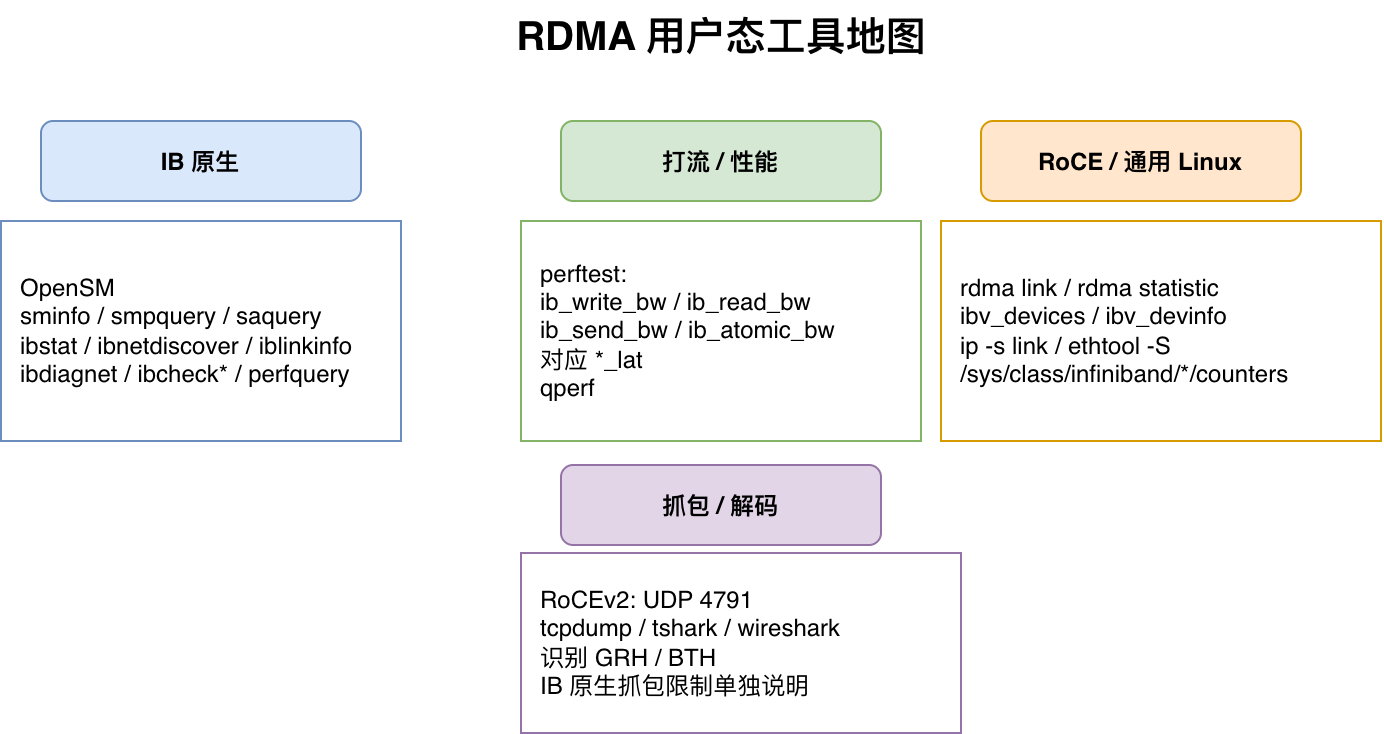
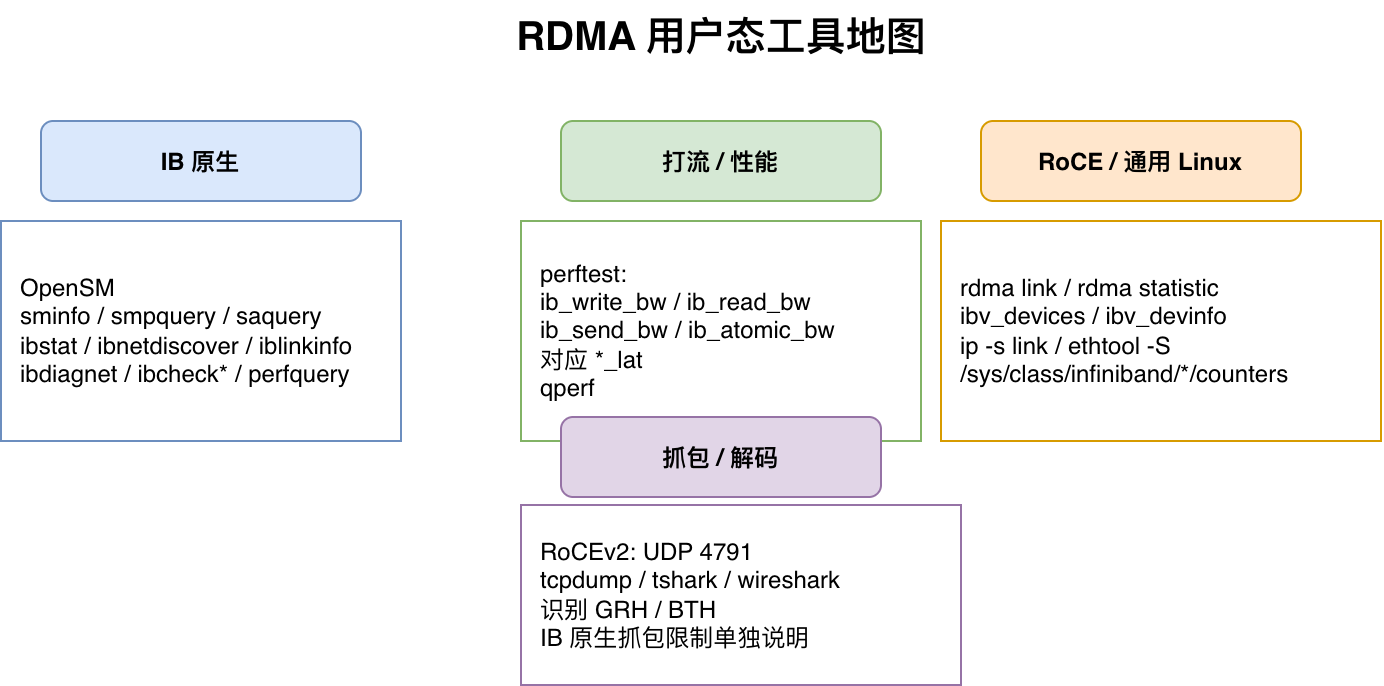
fix(tools): 修复全景图底部裁切，汇总表补 ibroute
- 抓包/解码分组上移 24px，PNG/SVG 重新导出，底部不再裁切
- 工具汇总表 dump_lfts/dump_mfts 行补上 ibroute <switch_lid>

diff --git a/articles/22-rdma-userspace-tools.md b/articles/22-rdma-userspace-tools.md
@@ -299,7 +299,7 @@ tshark -r roce.pcap -Y 'roce' -V
 | `ibdiagnet` | IB 诊断 | `ibutils2` | `ibdiagnet` | 链路速率/宽度、Symbol Error/BER | 子网体检 |
 | `ibping` / `ibtracert` | IB 诊断 | `infiniband-diags` | `ibping <lid>`、`ibtracert <src> <dst>` | 连通性、逐跳路径 | 连通性与路径 |
 | `perfquery` | IB 诊断 | `infiniband-diags` | `perfquery <lid> <port>` | Xmit/Rcv、discard、symbol error | 端口计数器 |
-| `dump_lfts` / `dump_mfts` | IB 诊断 | `infiniband-diags` | `dump_lfts`、`dump_mfts` | 交换机线性/组播转发表 | 转发表导出 |
+| `dump_lfts` / `dump_mfts` / `ibroute` | IB 诊断 | `infiniband-diags` | `dump_lfts`、`dump_mfts`、`ibroute <switch_lid>` | 交换机线性/组播转发表 | 转发表导出 |
 | `ib_write_bw` | 打流 | `perftest` | `ib_write_bw ... --report_gbits` | BW average、MsgRate | RDMA Write 带宽 |
 | `ib_write_lat` | 打流 | `perftest` | `ib_write_lat ...` | latency 分布 | RDMA Write 延迟 |
 | `qperf` | 打流 | `qperf` | `qperf -v <ip> rc_bw rc_lat` | bw/lat | 快速性能基线 |
